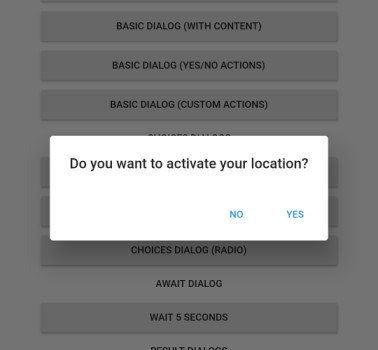
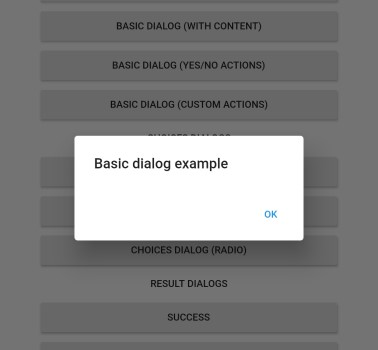
Code improvements

diff --git a/lib/dialogs/choice_dialog.dart b/lib/dialogs/choice_dialog.dart
@@ -35,6 +35,7 @@ Future<T> showChoicesButtonDialog<T>(BuildContext context, {
 	return (result != null && result.isNotEmpty ? result[0] : null);
 }
 
+/// 
 Future<T> showChoicesRadioDialog<T>(BuildContext context, {
 	Widget title, 
 	Widget content, 
@@ -54,7 +55,7 @@ Future<T> showChoicesRadioDialog<T>(BuildContext context, {
 		choiceType: DialogChoicesType.radio,
 		choices: choices, 
 		cancelWidget: cancelWidget,
-		confirmWidget: confirmWidget,
+		okWidget: confirmWidget,
 		barrierDismissible: barrierDismissible,
 		barrierColor: barrierColor,
 		useSafeArea: useSafeArea,
@@ -65,6 +66,7 @@ Future<T> showChoicesRadioDialog<T>(BuildContext context, {
 	return (result != null && result.isNotEmpty ? result[0] : null);
 }
 
+/// 
 Future<List<T>> showChoicesCheckBoxDialog<T>(BuildContext context, {
 	Widget title, 
 	Widget content, 
@@ -84,7 +86,7 @@ Future<List<T>> showChoicesCheckBoxDialog<T>(BuildContext context, {
 		choiceType: DialogChoicesType.checkBok,
 		choices: choices, 
 		cancelWidget: cancelWidget,
-		confirmWidget: confirmWidget,
+		okWidget: confirmWidget,
 		barrierDismissible: barrierDismissible,
 		barrierColor: barrierColor,
 		useSafeArea: useSafeArea,
@@ -95,13 +97,14 @@ Future<List<T>> showChoicesCheckBoxDialog<T>(BuildContext context, {
 	return (result != null && result.isNotEmpty ? result : null);
 }
 
+/// 
 Future<List<T>> _showChoicesDialog<T>(BuildContext context, {
 	Widget title, 
 	Widget content, 
 	@required DialogChoicesType choiceType,
 	@required List<DialogChoice<T>> choices, 
 	Widget cancelWidget,
-	Widget confirmWidget,
+	Widget okWidget,
 	bool barrierDismissible = false,
 	Color barrierColor,
 	bool useSafeArea = true,
@@ -115,17 +118,17 @@ Future<List<T>> _showChoicesDialog<T>(BuildContext context, {
 			Widget child;
 			switch (choiceType) {
 				case DialogChoicesType.button: child = ChoiceButtonDialog<T>(title, content, choices, [
-						DialogAction(title: cancelWidget ?? Text(StandardDialogsLocalizations.of(context)[DialogActionLocalizationsEnum.cancel]), value: null)
+						DialogAction(title: cancelWidget ?? Text(StandardDialogsLocalizations.of(context)[DialogResult.cancel]), action: null)
 					]);
 					break;
 				case DialogChoicesType.checkBok: child = ChoiceCheckBoxDialog<T>(title, content, choices, [
-						DialogAction(title: cancelWidget ?? Text(StandardDialogsLocalizations.of(context)[DialogActionLocalizationsEnum.cancel]), value: null),
-						DialogAction(title: cancelWidget ?? Text(StandardDialogsLocalizations.of(context)[DialogActionLocalizationsEnum.ok]), value: null),
+						DialogAction(title: okWidget ?? Text(StandardDialogsLocalizations.of(context)[DialogResult.ok]), action: null),
+						DialogAction(title: cancelWidget ?? Text(StandardDialogsLocalizations.of(context)[DialogResult.cancel]), action: null),
 					]);
 					break;
 				default: child = ChoiceRadioDialog<T>(title, content, choices, [
-						DialogAction(title: cancelWidget ?? Text(StandardDialogsLocalizations.of(context)[DialogActionLocalizationsEnum.cancel]), value: null),
-						DialogAction(title: cancelWidget ?? Text(StandardDialogsLocalizations.of(context)[DialogActionLocalizationsEnum.ok]), value: null),
+						DialogAction(title: okWidget ?? Text(StandardDialogsLocalizations.of(context)[DialogResult.ok]), action: null),
+						DialogAction(title: cancelWidget ?? Text(StandardDialogsLocalizations.of(context)[DialogResult.cancel]), action: null),
 					]);
 					break;
 			}

diff --git a/lib/classes/dialog_action.dart b/lib/classes/dialog_action.dart
@@ -25,12 +25,12 @@ class DialogAction<T> {
 	
 	/// Function that must be executed when the button is clicked, the function
 	/// should return the value expected by the dialog.
-	final T Function(BuildContext context) value;
+	final T Function(BuildContext context) action;
 
 	/// Standard constructor of the [DialogAction] class
 	DialogAction({
 		@required this.title,
-		@required this.value
+		@required this.action
 	});
 
 	/// Execute the action of the button click.
@@ -39,14 +39,57 @@ class DialogAction<T> {
 	/// and after the dialog will be closed, returning the obtained value.
 	performClick(BuildContext context) async {
 
-		if (this.value == null) {
+		if (this.action == null) {
 			Navigator.of(context).pop();	
 		}
 
-		T result = (this.value != null ? await this.value(context) : null);
+		T result = (this.action != null ? await this.action(context) : null);
 		if (result != null) {
 			Navigator.of(context).pop(result);
 		}
 
+	}
+
+	static List<DialogAction<DialogResult>> ok(BuildContext context) {
+		return [
+			DialogAction(title: Text(StandardDialogsLocalizations.of(context)[DialogResult.ok]), action: (context) => DialogResult.ok),
+		];
+	}
+
+	static List<DialogAction<DialogResult>> okCancel(BuildContext context) {
+		return [
+			DialogAction(title: Text(StandardDialogsLocalizations.of(context)[DialogResult.ok]), action: (context) => DialogResult.ok),
+			DialogAction(title: Text(StandardDialogsLocalizations.of(context)[DialogResult.cancel]), action: (context) => DialogResult.cancel),
+		];
+	}
+
+	static List<DialogAction<DialogResult>> abortRetryIgnore(BuildContext context) {
+		return [
+			DialogAction(title: Text(StandardDialogsLocalizations.of(context)[DialogResult.abort]), action: (context) => DialogResult.abort),
+			DialogAction(title: Text(StandardDialogsLocalizations.of(context)[DialogResult.retry]), action: (context) => DialogResult.retry),
+			DialogAction(title: Text(StandardDialogsLocalizations.of(context)[DialogResult.ignore]), action: (context) => DialogResult.ignore),
+		];
+	}
+
+	static List<DialogAction<DialogResult>> yesNoCancel(BuildContext context) {
+		return [
+			DialogAction(title: Text(StandardDialogsLocalizations.of(context)[DialogResult.yes]), action: (context) => DialogResult.yes),
+			DialogAction(title: Text(StandardDialogsLocalizations.of(context)[DialogResult.no]), action: (context) => DialogResult.no),
+			DialogAction(title: Text(StandardDialogsLocalizations.of(context)[DialogResult.cancel]), action: (context) => DialogResult.cancel),
+		];
+	}
+
+	static List<DialogAction<DialogResult>> yesNo(BuildContext context) {
+		return [
+			DialogAction(title: Text(StandardDialogsLocalizations.of(context)[DialogResult.yes]), action: (context) => DialogResult.yes),
+			DialogAction(title: Text(StandardDialogsLocalizations.of(context)[DialogResult.no]), action: (context) => DialogResult.no)
+		];
+	}
+
+	static List<DialogAction<DialogResult>> retryCancel(BuildContext context) {
+		return [
+			DialogAction(title: Text(StandardDialogsLocalizations.of(context)[DialogResult.retry]), action: (context) => DialogResult.retry),
+			DialogAction(title: Text(StandardDialogsLocalizations.of(context)[DialogResult.cancel]), action: (context) => DialogResult.cancel)
+		];
 	}
 }

diff --git a/lib/localizations/standard_dialogs_localizations.dart b/lib/localizations/standard_dialogs_localizations.dart
@@ -2,6 +2,7 @@ import 'dart:ui';
 
 import 'package:flutter/material.dart';
 import 'package:simple_localization/simple_localization.dart';
+import 'package:standard_dialogs/classes/dialog_result.dart';
 import 'package:standard_dialogs/localizations/localizations_enum.dart';
 
 class StandardDialogsLocalizations extends SimpleLocalizations {
@@ -17,24 +18,39 @@ class StandardDialogsLocalizations extends SimpleLocalizations {
   @override
   Map<String, Map<dynamic, String>> get localizedValues => {
 	  'en': {
-		  DialogActionLocalizationsEnum.cancel: 'Cancel',
-		  DialogActionLocalizationsEnum.ok: 'OK',
+		  DialogResult.abort: 'Abort',
+		  DialogResult.cancel: 'Cancel',
+		  DialogResult.ignore: 'Ignore',
+		  DialogResult.no: 'No',
+		  DialogResult.ok: 'OK',
+		  DialogResult.retry: 'Retry',
+		  DialogResult.yes: 'Yes',
 
 		  ResultDialogLocalizationsEnum.error: 'Error',
 		  ResultDialogLocalizationsEnum.success: 'Success',
 		  ResultDialogLocalizationsEnum.warning: 'Warning',
 	  },
 	  'es': {
-		  DialogActionLocalizationsEnum.cancel: 'Cancelar',
-		  DialogActionLocalizationsEnum.ok: 'OK',
+			DialogResult.abort: 'Abortar',
+			DialogResult.cancel: 'Cancelar',
+			DialogResult.ignore: 'Ignorar',
+			DialogResult.no: 'No',
+			DialogResult.ok: 'OK',
+			DialogResult.retry: 'Tentar Rever',
+			DialogResult.yes: 'Si',
 
 		  ResultDialogLocalizationsEnum.error: 'Error',
 		  ResultDialogLocalizationsEnum.success: 'Éxito',
 		  ResultDialogLocalizationsEnum.warning: 'Advertencia',
 	  },
 	  'pt': {
-		  DialogActionLocalizationsEnum.cancel: 'Cancelar',
-		  DialogActionLocalizationsEnum.ok: 'OK',
+			DialogResult.abort: 'Abortar',
+			DialogResult.cancel: 'Cancelar',
+			DialogResult.ignore: 'Ignorar',
+			DialogResult.no: 'Não',
+			DialogResult.ok: 'OK',
+			DialogResult.retry: 'Tentar novamente',
+			DialogResult.yes: 'Sim',
 
 		  ResultDialogLocalizationsEnum.error: 'Erro',
 		  ResultDialogLocalizationsEnum.success: 'Sucesso',

diff --git a/example/lib/home.dart b/example/lib/home.dart
@@ -94,23 +94,22 @@ class HomePage extends StatelessWidget {
 
   	_showBasicDialogWithYesNoAction(BuildContext context) {
 
-		showBasicDialog<bool>(context,
+		final result = showBasicDialog<DialogResult>(context,
 			title: Text('Do you want to activate your location?'),
-			actions: [
-				DialogAction(title: Text('NO'), value: (context) => false),
-				DialogAction(title: Text('YES'), value: (context) => true)
-			]);
+			actions: DialogAction.yesNo(context));
+		print(result.toString());
       
   	}
 
   	_showBasicDialogWithCustomAction(BuildContext context) {
 
 		showBasicDialog<int>(context,
-			title: Text('How long do you want to share your location?'),
+			title: Text('Share location'),
+			content: Text('How long do you want to share your location?'),
 			actions: [
-				DialogAction(title: Text('CANCEL'), value: (context) => 0),
-				DialogAction(title: Text('10 MINUTES'), value: (context) => 10),
-				DialogAction(title: Text('ALWAYS'), value: (context) => -1)
+				DialogAction(title: Text('Always'), action: (context) => -1),
+				DialogAction(title: Text('10 minutes'), action: (context) => 10),
+				DialogAction(title: Text('Cancel'), action: (context) => 0),
 			]);
       
   	}
@@ -211,7 +210,7 @@ class HomePage extends StatelessWidget {
 			content: Text('User created successfully!'),
 			action: DialogAction(
 				title: Text('Get Started'),
-				value: null)
+				action: null)
 			);
 
 	}

diff --git a/lib/dialogs/result_dialog.dart b/lib/dialogs/result_dialog.dart
@@ -2,6 +2,7 @@ import 'package:flutter/material.dart';
 import 'package:standard_dialogs/standard_dialogs.dart';
 import 'package:standard_dialogs/widgets/result_dialog.dart';
 
+/// 
 Future<T> showErrorDialog<T>(BuildContext context, {
 	Widget icon = const Icon(Icons.error), 
 	@required Widget title, 
@@ -28,6 +29,7 @@ Future<T> showErrorDialog<T>(BuildContext context, {
 
 }
 
+/// 
 Future<T> showSuccessDialog<T>(BuildContext context, {
 	Widget icon = const Icon(Icons.check_circle), 
 	@required Widget title,
@@ -54,6 +56,7 @@ Future<T> showSuccessDialog<T>(BuildContext context, {
 
 }
 
+/// 
 Future<T> showWarningDialog<T>(BuildContext context, {
 	Widget icon = const Icon(Icons.warning), 
 	@required Widget title, 
@@ -80,6 +83,7 @@ Future<T> showWarningDialog<T>(BuildContext context, {
 
 }
 
+/// 
 Future<T> showResultDialog<T>(BuildContext context, {
 	@required Color backgroundColor,
 	@required Color textColor,
@@ -106,8 +110,8 @@ Future<T> showResultDialog<T>(BuildContext context, {
 					title: title,
 					content: content,
 					action: (action ?? DialogAction<T>(
-						title: Text(StandardDialogsLocalizations.of(context)[DialogActionLocalizationsEnum.ok]), 
-						value: null))
+						title: Text(StandardDialogsLocalizations.of(context)[DialogResult.ok]), 
+						action: null))
 				)
 			);
 

diff --git a/lib/dialogs/basic_dialog.dart b/lib/dialogs/basic_dialog.dart
@@ -42,7 +42,7 @@ Future<T> showBasicDialog<T>(BuildContext context, {
 				child: AlertDialog(
 					title: title,
 					content: content,
-					actions: (actions ?? [DialogAction<T>(title: Text(StandardDialogsLocalizations.of(context)[DialogActionLocalizationsEnum.ok]), value: null,)]).map<FlatButton>((e) => FlatButton(
+					actions: (actions ?? [DialogAction<T>(title: Text(StandardDialogsLocalizations.of(context)[DialogResult.ok]), action: null,)]).map<FlatButton>((e) => FlatButton(
 						onPressed: () => e.performClick(context),
 						child: e.title)).toList(),
 				)

diff --git a/lib/widgets/choice_checkbox_dialog.dart b/lib/widgets/choice_checkbox_dialog.dart
@@ -39,10 +39,10 @@ class ChoiceCheckBoxDialog<T> extends ChoiceDialog<T> {
 	List<Widget> buildActions(BuildContext context, List<DialogChoice<T>> selectedChoices) {
 		return [
 			FlatButton(
-				onPressed: () => cancelDialog(context), 
+				onPressed: () => confirmDialog(context, selectedChoices), 
 				child: actions[0].title),
 			FlatButton(
-				onPressed: () => confirmDialog(context, selectedChoices), 
+				onPressed: () => cancelDialog(context), 
 				child: actions[1].title)
 		];
 	}

diff --git a/lib/widgets/choice_radio_dialog.dart b/lib/widgets/choice_radio_dialog.dart
@@ -38,10 +38,10 @@ class ChoiceRadioDialog<T> extends ChoiceDialog<T> {
 	List<Widget> buildActions(BuildContext context, List<DialogChoice<T>> selectedChoices) {
 		return [
 			FlatButton(
-				onPressed: () => cancelDialog(context), 
+				onPressed: () => confirmDialog(context, selectedChoices), 
 				child: actions[0].title),
 			FlatButton(
-				onPressed: () => confirmDialog(context, selectedChoices), 
+				onPressed: () => cancelDialog(context), 
 				child: actions[1].title)
 		];
 	}

diff --git a/lib/standard_dialogs.dart b/lib/standard_dialogs.dart
@@ -1,7 +1,8 @@
 library standard_dialogs;
 
-export 'classes/dialog_action.dart';
 export 'classes/choice_choice.dart';
+export 'classes/dialog_action.dart';
+export 'classes/dialog_result.dart';
 
 export 'dialogs/await_dialog.dart';
 export 'dialogs/basic_dialog.dart';

diff --git a/lib/localizations/localizations_enum.dart b/lib/localizations/localizations_enum.dart
@@ -1,2 +1,1 @@
-enum DialogActionLocalizationsEnum { cancel, ok }
 enum ResultDialogLocalizationsEnum { error, success, warning }

diff --git a/lib/classes/dialog_result.dart b/lib/classes/dialog_result.dart
@@ -1,0 +1,1 @@
+enum DialogResult { abort, cancel, ignore, no, ok, retry, yes, }

diff --git a/README.md b/README.md
@@ -40,9 +40,19 @@ Example of using basic dialogues.
 final result = await showBasicDialog<bool>(context,
    title: Text('Basic dialog example'),
    content: Text('Content of the dialogue, here you can explain in detail the reason for the dialogue'),
+   actions: DialogAction.yesNo(context));
+```
+
+Example of using basic dialogs with custom buttons.
+
+```dart
+final result = await showBasicDialog<bool>(context,
+   title: Text('Share location'),
+   content: Text('How long do you want to share your location?'),
    actions: [
-      DialogAction(title: Text('NO'), value: (context) => false),
-      DialogAction(title: Text('YES'), value: (context) => true)
+      DialogAction(title: Text('Always'), action: (context) => -1),
+      DialogAction(title: Text('10 minutes'), action: (context) => 10),
+      DialogAction(title: Text('Cancel'), action: (context) => 0),
    ]);
 ```
 
@@ -51,6 +61,10 @@ Screenshots of dialog examples
 <img src="https://github.com/ricardocrescenti/flutter-standard-dialogs/blob/master/example/assets/images/basic_dialog_title.jpg" height = "400">
 
 <img src="https://github.com/ricardocrescenti/flutter-standard-dialogs/blob/master/example/assets/images/basic_dialog_basic_content.jpg" height = "400">
+
+<img src="https://github.com/ricardocrescenti/flutter-standard-dialogs/blob/master/example/assets/images/basic_dialog_basic_yes_no.jpg" height = "400">
+
+<img src="https://github.com/ricardocrescenti/flutter-standard-dialogs/blob/master/example/assets/images/basic_dialog_basic_custom_actions.jpg" height = "400">
 
 ## Choices Dialogs
 
